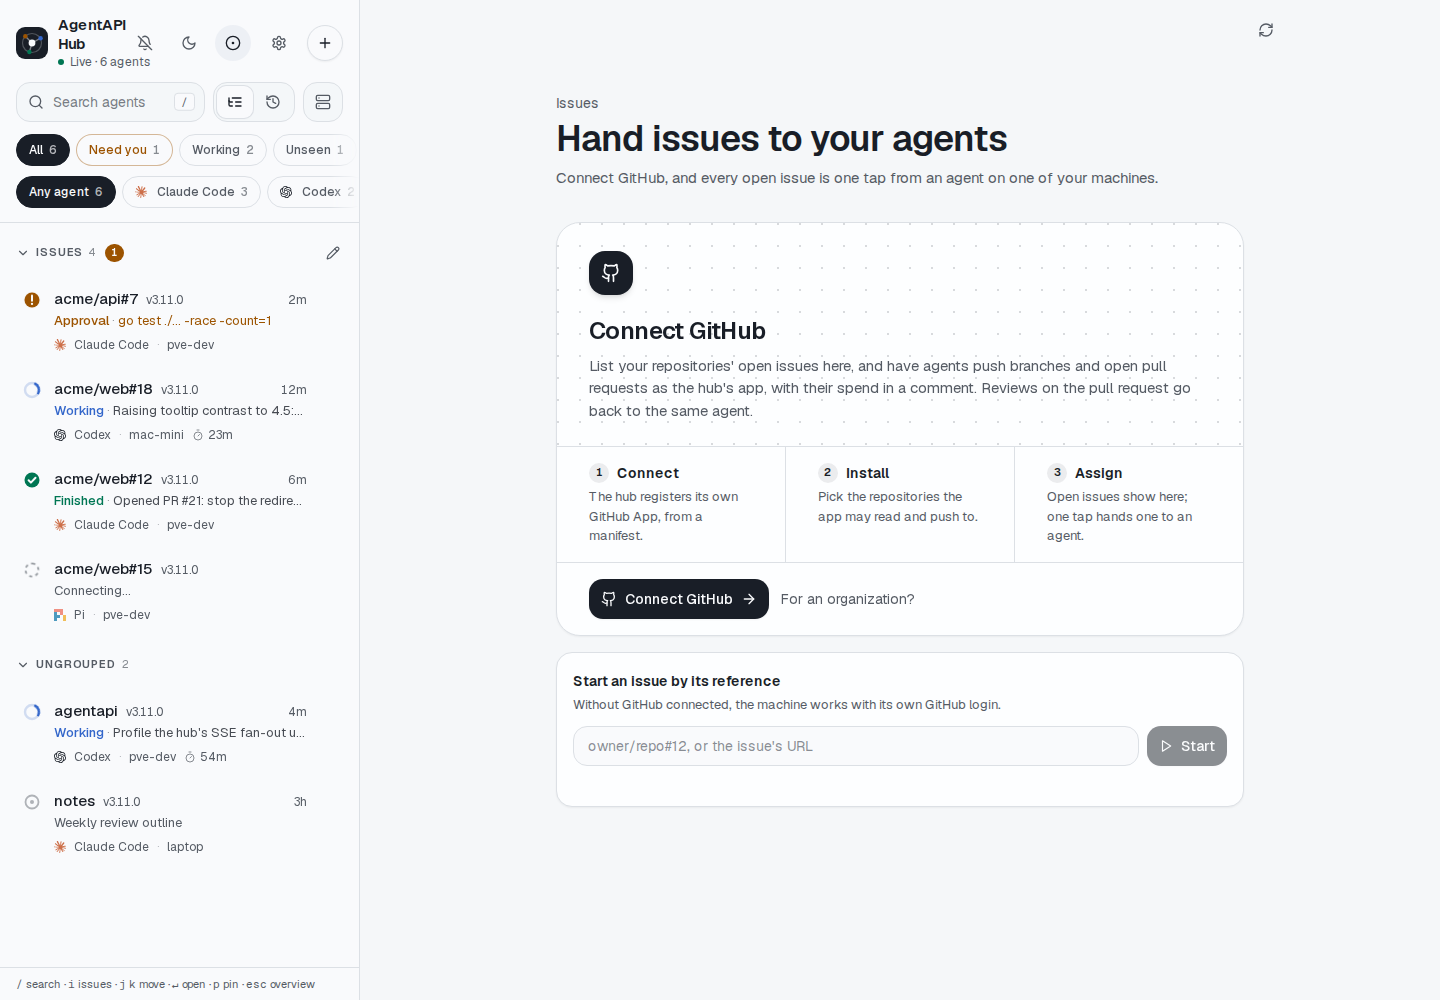
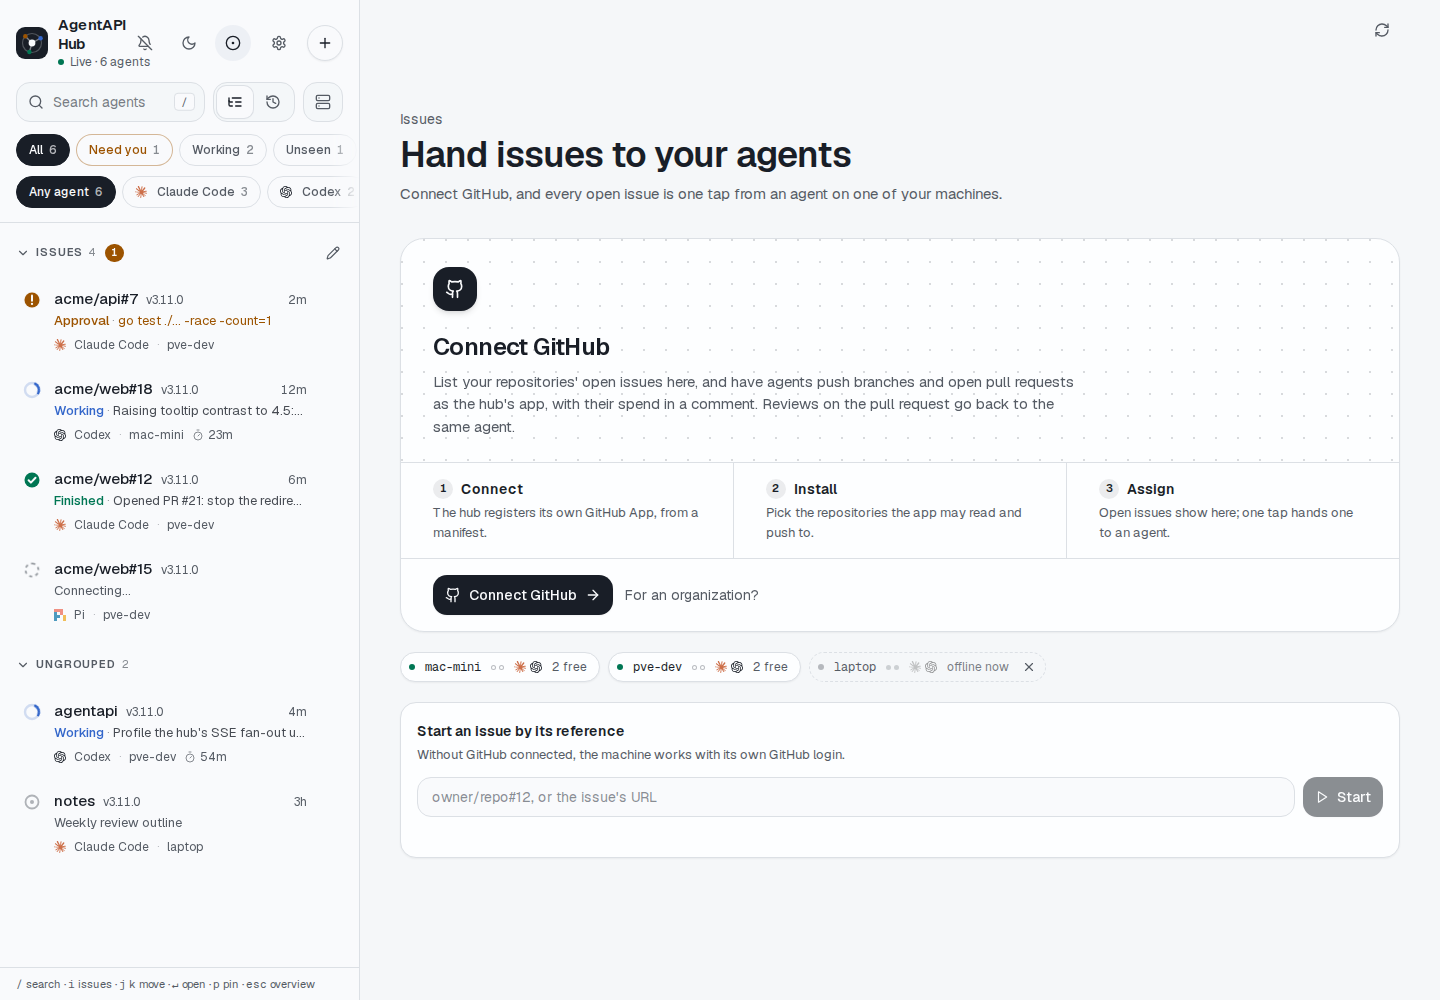
docs: forgetting a machine from Issues

diff --git a/docs/hub.md b/docs/hub.md
@@ -639,8 +639,12 @@ The page puts the issues of the repositories it shows on one board. The headline
 you, and the line under it counts the stages. The bar under them shows how many issues are at
 each stage, To do, In progress, In review and Done, in proportion; In progress also says how many
 of its issues wait on you and how many failed. Below are the machines whose launchers report:
-online or not, their jobs against their room (●●●○), and the agents each runs. Then the issues,
-by section:
+online or not, their jobs against their room (●●●○), and the agents each runs. An offline machine
+has **×**, which forgets it after a dialog: the hub drops the machine and the launcher token it
+pinned its name to, so a launcher set up again, with a new token, can join under the name. The
+button is off while one of its jobs still works (all but done, stopped and failed); stop them
+first. Nothing changes on the machine, and a launcher that reports again shows up again. Then the
+issues, by section:
 
 - **Needs you**: a failed job, then an agent that waits on you (an approval, a question), then a
   pull request to review.
@@ -716,8 +720,9 @@ Issues.
 Before the hub has a GitHub App, Issues shows **Connect GitHub**, which registers one from a
 manifest, for your account or an organization. [GitHub settings](#github-settings) changes the
 app's repositories, connects another app, or disconnects it. An issue can still be started by its reference
-(`owner/repo#12`, or its URL); the machine then works with its own GitHub login. Without a launcher
-on any machine, the page shows the command that installs one.
+(`owner/repo#12`, or its URL); the machine then works with its own GitHub login. The machines show
+above it, with **×** on an offline one, as on the board. Without a launcher on any machine, the page
+shows the command that installs one.
 
 | The board on a phone | An issue on a phone |
 | --- | --- |
@@ -914,7 +919,7 @@ right is forgotten, it closes.
 | A connected agent's **⋯** menu has nothing about updating it | Its AgentAPI is too old to update from the hub | Update it by hand ([Updating by hand](#updating-by-hand)) |
 | The hub logs "The hub's file of instances doesn't parse" | The file was damaged, such as by an edit by hand, or a hub of 2.2 or earlier started on a newer hub's file | The hub moved it aside (`instances.json.corrupt-<time>`) and started empty. Joined instances come back with their next heartbeat. To get the rest back, stop the hub and copy `instances.json.bak` (the file as the hub's previous start found it) over `instances.json`; for a hub of 2.2 or earlier, see [Files](#files) |
 | The hub doesn't start: `instances.json is of a newer hub` | A newer hub wrote the file | Run the newer hub, or start from `instances.json.bak` |
-| A machine stays offline in Issues; the hub logs "Refused a host event with another launcher's token than the machine's" | The hub pins a machine's name to the launcher token it first came with. The launcher has a new token (its `~/.agentapi/host.token` was deleted, or the machine was set up again), or another machine with the hub's secret uses the name | If it is your machine: stop its jobs, and once it shows offline, forget it with `curl -X DELETE -H "Authorization: Bearer <hub token>" http://<hub>:3290/api/hosts/<name>`; it joins with its next heartbeat. If it isn't, change the hub's `--secret` and join your machines again |
+| A machine stays offline in Issues; the hub logs "Refused a host event with another launcher's token than the machine's" | The hub pins a machine's name to the launcher token it first came with. The launcher has a new token (its `~/.agentapi/host.token` was deleted, or the machine was set up again), or another machine with the hub's secret uses the name | If it is your machine: stop its jobs, and once it shows offline, forget it with its **×** in Issues ([Issues](#issues)); it joins with its next heartbeat. If it isn't, change the hub's `--secret` and join your machines again |
 | An issue stays **Starting** for minutes | The machine clones or fetches a big repository (up to 10 minutes), then waits up to a minute for the agent | Wait; `~/.agentapi/jobs/<owner>~<repo>~<issue>/agentapi.log` on the machine has the agent's side. A start the hub lost the answer of works or fails with the machine's next heartbeat |
 
 `agentapi hub status` on an instance's machine shows which hub its config file names and where
@@ -962,7 +967,8 @@ The launcher's settings (the `host` section of `~/.agentapi/config.yaml`), its f
 [examples/issue-dispatch](../examples/issue-dispatch/README.md) sets up the hub's dispatch token,
 GitHub App and workflow too. The hub pins each machine's name to the launcher token
 (`~/.agentapi/host.token`) it first came with: a machine set up again, or whose token file was
-deleted, joins under its name only after `DELETE /api/hosts/{name}` ([Troubleshooting](#troubleshooting)).
+deleted, joins under its name only after the hub forgets it: **×** on the machine in [Issues](#issues),
+or `DELETE /api/hosts/{name}` ([Troubleshooting](#troubleshooting)).
 
 ### `agentapi hub join`, `leave`, `status`
 

diff --git a/docs/specs/issue-dispatch.zh-TW.md b/docs/specs/issue-dispatch.zh-TW.md
@@ -287,7 +287,7 @@ GitHub App 另外存在 `~/.agentapi/hub/github-app.json`（0600，不併入 `in
 - hub 的瀏覽器串流（`GET /api/events`）多了 `dispatch` 事件：主機與 job 的完整內容（同 `/api/hosts`、`/api/jobs`），一開始送一次，之後每次變動再送（短時間內的多次變動合併成一次）；主機因漏掉 heartbeat 而離線時，hub 自己的 heartbeat 也會送一次。3.12 以前的頁面不聽這個事件。
 - 新增 `--dispatch-token`（`AGENTAPI_HUB_DISPATCH_TOKEN`）：只能呼叫 `/api/dispatch`。
 - `/api/github/token`：簽章以 secret 驗證，並以簽章本身去重（delivery ID 不在簽章內）；另須帶該主機的 host token。只發給在該主機上進行中（不含 failed）、用 hub 憑證的 job。
-- `host.*` 事件：主機名稱綁定第一次帶來的 host token（§11）；token 不同或沒帶 token 的事件一律拒絕，不論主機是否在線、事件是不是 `host.stopped`。重灌而換了 token 的主機，要先以 `DELETE /api/hosts/{name}` 移除。
+- `host.*` 事件：主機名稱綁定第一次帶來的 host token（§11）；token 不同或沒帶 token 的事件一律拒絕，不論主機是否在線、事件是不是 `host.stopped`。重灌而換了 token 的主機，要先以 `DELETE /api/hosts/{name}`（Issues 頁離線主機的 **×**）移除。
 - dispatch.json 在背景寫入（不在鎖內做磁碟 I/O），hub 結束時寫完。
 - `/github/callback`、`/github/setup` 是瀏覽器跳轉，需要已登入 hub；沒登入時先登入再跳回。
 
@@ -628,7 +628,7 @@ jobs:
 5. `github-app.json` 0600；hub 的 log 不輸出 token 與 key。
 6. launcher 與 job instance 都必須有 token；launcher 建議 `bind` 內網位址。
 
-7. **主機身分（trust on first use）**：webhook secret 是所有加入的主機共用的，所以它不代表某一台主機。hub 第一次收到某個主機名稱的 `host.*` 事件時，記下事件裡的 host token，之後這個名稱只接受同一個 token：token 不同或沒帶 token 的事件一律拒絕（不論主機是否在線，`host.stopped` 也一樣），`/api/github/token` 也只認這個 token。否則持有 secret 的機器可以先送 `host.stopped` 再冒名送 heartbeat，取得那台主機上 job 的 GitHub token，並讓 hub 把派工送到自己那裡。主機重灌或 `host.token` 遺失時，先停掉它的 job，等它離線後以 `DELETE /api/hosts/{name}` 移除，新的 launcher 下一次 heartbeat 就會重新加入。
+7. **主機身分（trust on first use）**：webhook secret 是所有加入的主機共用的，所以它不代表某一台主機。hub 第一次收到某個主機名稱的 `host.*` 事件時，記下事件裡的 host token，之後這個名稱只接受同一個 token：token 不同或沒帶 token 的事件一律拒絕（不論主機是否在線，`host.stopped` 也一樣），`/api/github/token` 也只認這個 token。否則持有 secret 的機器可以先送 `host.stopped` 再冒名送 heartbeat，取得那台主機上 job 的 GitHub token，並讓 hub 把派工送到自己那裡。主機重灌或 `host.token` 遺失時，先停掉它的 job，等它離線後以 `DELETE /api/hosts/{name}`（Issues 頁離線主機的 **×**）移除，新的 launcher 下一次 heartbeat 就會重新加入。
 8. **同一使用者的信任邊界**：主機上的 job 都以同一個使用者執行，agent 讀得到 `~/.agentapi/` 裡的 secret 與 host token。token 只發給 job 自己的 process（Linux），但同一台主機上的 agent 仍可讀其他檔案；需要更強的隔離時，以不同使用者或不同主機跑 job。
 
 ## 12. 失敗處理

diff --git a/README.zh-TW.md b/README.zh-TW.md
@@ -1755,7 +1755,7 @@ host:
 
 | 檔案 | 內容 |
 | --- | --- |
-| `~/.agentapi/host.token` | hub 呼叫 launcher 用的 token，第一次啟動時產生。hub 會把主機名稱綁定到它：換了 token 的 launcher（檔案被刪、主機重灌）要等 hub 上執行 `DELETE /api/hosts/{name}` 後才能加入（見[疑難排解](docs/hub.zh-TW.md#疑難排解)） |
+| `~/.agentapi/host.token` | hub 呼叫 launcher 用的 token，第一次啟動時產生。hub 會把主機名稱綁定到它：換了 token 的 launcher（檔案被刪、主機重灌）要等 hub 移除這台主機後才能加入：在 hub 的 Issues 按主機的 **×**，或呼叫 `DELETE /api/hosts/{name}`（見[疑難排解](docs/hub.zh-TW.md#疑難排解)） |
 | `~/.agentapi/instance.token` | 所有 job 的 AgentAPI 共用的 API token，必須等於 hub 的 `--instance-token` |
 | `~/.agentapi/host.sock` | job 的 `git` 和 `gh` 向 launcher 拿 GitHub token 的地方 |
 | `~/.agentapi/jobs.json`、`~/.agentapi/jobs/` | job 清單，以及各 job 的狀態資料庫、log 和 `gh` shim |

diff --git a/README.md b/README.md
@@ -2049,7 +2049,7 @@ host:
 
 | File | Holds |
 | --- | --- |
-| `~/.agentapi/host.token` | The token the hub calls the launcher with, made on first start. The hub pins the machine's name to it: a launcher with a new one (the file deleted, the machine set up again) joins only after `DELETE /api/hosts/{name}` on the hub ([Troubleshooting](docs/hub.md#troubleshooting)) |
+| `~/.agentapi/host.token` | The token the hub calls the launcher with, made on first start. The hub pins the machine's name to it: a launcher with a new one (the file deleted, the machine set up again) joins only after the hub forgets the machine: **×** on it in the hub's Issues, or `DELETE /api/hosts/{name}` ([Troubleshooting](docs/hub.md#troubleshooting)) |
 | `~/.agentapi/instance.token` | The API token of every job's AgentAPI; it must be the hub's `--instance-token` |
 | `~/.agentapi/host.sock` | Where the jobs' `git` and `gh` get their GitHub token from the launcher |
 | `~/.agentapi/jobs.json`, `~/.agentapi/jobs/` | The jobs, and each one's state database, log and `gh` shim |

diff --git a/docs/screenshots/README.md b/docs/screenshots/README.md
@@ -40,6 +40,10 @@ and the issues and jobs of `acme/web`, `acme/api` and `acme/infra`, at a fixed t
 Codex, a local bare repository in place of github.com, and a fake GitHub API. None of them are
 part of `capture-docs.mjs`.
 
+The Issues side of `dispatch-no-github.png` was taken again from a 3.16 build, for the machines
+it shows since: a hub of its own with three machines' launchers (one offline) reported by hand,
+and the list beside it kept from the first.
+
 `hub-settings-github.png` came from the same kind of build and fixtures: an app of the `acme`
 organization installed on `acme` (24 selected repositories) and on a user, `dave` (all three of
 his), with the accounts' pictures drawn locally in place of GitHub's. Since the settings dialog
